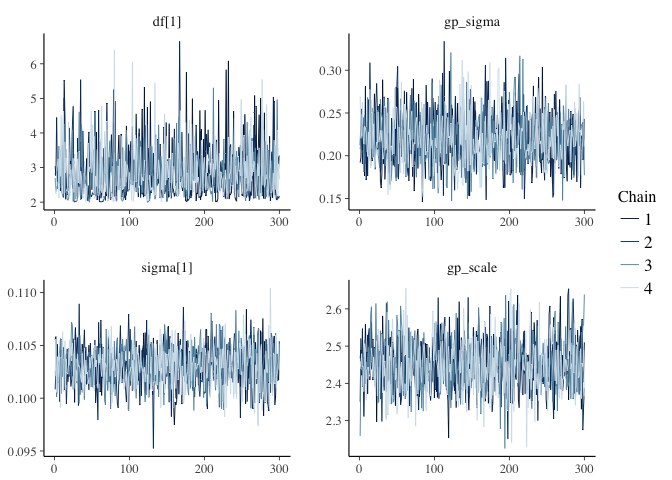
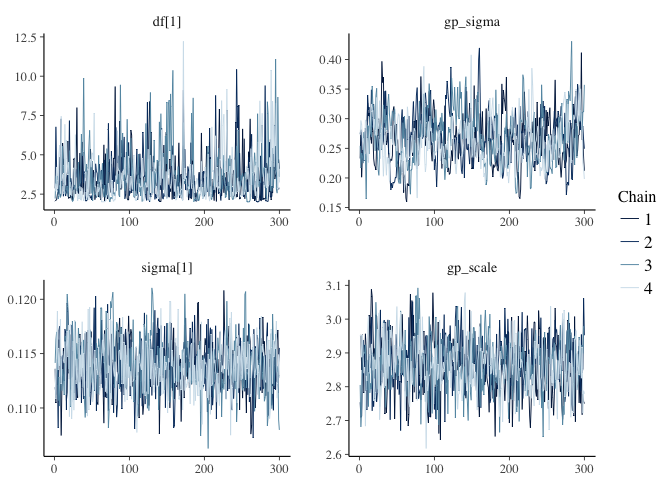
Update readme

diff --git a/README.md b/README.md
@@ -4,7 +4,7 @@ rrfields
 
 [![Travis-CI Build Status](https://travis-ci.org/seananderson/rrfields.svg?branch=master)](https://travis-ci.org/seananderson/rrfields) [![AppVeyor Build Status](https://ci.appveyor.com/api/projects/status/github/seananderson/rrfields?branch=master&svg=true)](https://ci.appveyor.com/project/seananderson/rrfields) <!-- [![codecov](https://codecov.io/github/seananderson/rrfields/branch/master/graphs/badge.svg)](https://codecov.io/github/seananderson/rrfields) -->
 
-The rrfields R package implements spatiotemporal models that allow for extreme spatial deviations through time. It uses a predictive process approach with random fields implemented through a multivariate-t distribution instead of a multivariate normal. The models are fit with [Stan](http://mc-stan.org/).
+The rrfields R package implements Bayesian spatiotemporal models that allow for extreme spatial deviations through time. It uses a predictive process approach with random fields implemented through a multivariate-t distribution instead of a multivariate normal. The models are fit with [Stan](http://mc-stan.org/).
 
 You can install the development version of the package with:
 
@@ -20,17 +20,18 @@ Simulate data:
 
 ``` r
 library(rrfields)
-set.seed(1)
-s <- sim_rrfield(df = 2, n_draws = 15, n_knots = 12, gp_scale = 2.5, 
+#> Loading required package: Rcpp
+set.seed(123)
+s <- sim_rrfield(df = 2.3, n_draws = 12, n_knots = 14, gp_scale = 2.5, 
   gp_sigma = 0.2, sd_obs = 0.1)
 head(s$dat)
-#>   time pt           y      lon      lat station_id
-#> 1    1  1 0.562277290 2.655087 6.547239          1
-#> 2    1  2 0.226782328 3.721239 3.531973          2
-#> 3    1  3 0.024898812 5.728534 2.702601          3
-#> 4    1  4 0.004810619 9.082078 9.926841          4
-#> 5    1  5 0.440714012 2.016819 6.334933          5
-#> 6    1  6 0.172293349 8.983897 2.132081          6
+#>   time pt          y      lon      lat station_id
+#> 1    1  1 -0.2295730 2.875775 5.999890          1
+#> 2    1  2  0.1930647 7.883051 3.328235          2
+#> 3    1  3 -0.1609730 4.089769 4.886130          3
+#> 4    1  4 -0.5309184 8.830174 9.544738          4
+#> 5    1  5 -0.1127621 9.404673 4.829024          5
+#> 6    1  6 -0.6922423 0.455565 8.903502          6
 ```
 
 ``` r
@@ -43,7 +44,7 @@ Fit the model:
 
 ``` r
 options(mc.cores = parallel::detectCores()) # for parallel processing
-m <- rrfield(y ~ 1, data = s$dat, time = "time",
+m <- rrfield(y ~ 0, data = s$dat, time = "time",
   lat = "lat", lon = "lon", station = "station_id", nknots = 12, iter = 600)
 ```
 
@@ -53,22 +54,20 @@ print(m)
 #> 4 chains, each with iter=600; warmup=300; thin=1; 
 #> post-warmup draws per chain=300, total post-warmup draws=1200.
 #> 
-#>             mean se_mean    sd    2.5%     25%     50%     75%   97.5%
-#> df[1]       2.85    0.02  0.72    2.03    2.31    2.66    3.18    4.69
-#> gp_sigma    0.22    0.00  0.03    0.16    0.20    0.22    0.24    0.29
-#> gp_scale    2.45    0.00  0.07    2.33    2.41    2.45    2.50    2.60
-#> B[1]       -0.03    0.01  0.02   -0.07   -0.04   -0.03   -0.01    0.02
-#> sigma[1]    0.10    0.00  0.00    0.10    0.10    0.10    0.10    0.11
-#> lp__     2773.45    0.55 10.20 2751.60 2766.96 2774.10 2780.34 2792.45
+#>             mean se_mean   sd    2.5%     25%     50%     75%   97.5%
+#> df[1]       3.60    0.07 1.47    2.06    2.55    3.19    4.13    7.91
+#> gp_sigma    0.27    0.00 0.04    0.19    0.24    0.27    0.29    0.35
+#> gp_scale    2.86    0.00 0.08    2.71    2.81    2.86    2.92    3.02
+#> sigma[1]    0.11    0.00 0.00    0.11    0.11    0.11    0.12    0.12
+#> lp__     2144.38    0.49 9.86 2123.27 2137.87 2144.63 2151.32 2162.82
 #>          n_eff Rhat
-#> df[1]     1200 1.00
-#> gp_sigma  1200 1.00
-#> gp_scale  1200 1.00
-#> B[1]        20 1.21
+#> df[1]      430 1.00
+#> gp_sigma   256 1.00
+#> gp_scale   749 1.01
 #> sigma[1]  1200 1.00
-#> lp__       347 1.01
+#> lp__       400 1.01
 #> 
-#> Samples were drawn using NUTS(diag_e) at Thu Dec  8 14:31:14 2016.
+#> Samples were drawn using NUTS(diag_e) at Thu Dec 15 20:48:35 2016.
 #> For each parameter, n_eff is a crude measure of effective sample size,
 #> and Rhat is the potential scale reduction factor on split chains (at 
 #> convergence, Rhat=1).
@@ -77,10 +76,31 @@ print(m)
 Plot:
 
 ``` r
-plot(m)
+plot(m, type = "prediction") + ggplot2::scale_color_gradient2()
 ```
 
 ![](README-figs/plot-predictions-1.png)
+
+``` r
+plot(m, type = "spatial-residual")
+```
+
+![](README-figs/plot-predictions-2.png)
+
+Predictions with credible intervals:
+
+``` r
+p <- predict(m)
+pp <- predict(m, interval = "prediction")
+plot(s$dat$y, p$estimate, col = "#00000080", xlab = "Observed", ylab = "Predicted")
+segments(s$dat$y, pp$conf_low, s$dat$y, pp$conf_high, lwd = 0.5, col = "#00000020")
+segments(s$dat$y, p$conf_low, s$dat$y, p$conf_high, lwd = 1, col = "#00000030")
+abline(a = 0, b = 1)
+```
+
+![](README-figs/prediction-cis-1.png)
+
+Work with the Stan model:
 
 ``` r
 library(bayesplot)
@@ -92,9 +112,7 @@ mcmc_trace(posterior,  pars = pars)
 ![](README-figs/plot-1.png)
 
 ``` r
-
-mm <- as.matrix(m$model)
-mcmc_areas(mm, pars = pars)
+mcmc_areas(as.matrix(m$model), pars = pars)
 ```
 
 ![](README-figs/plot-2.png)
